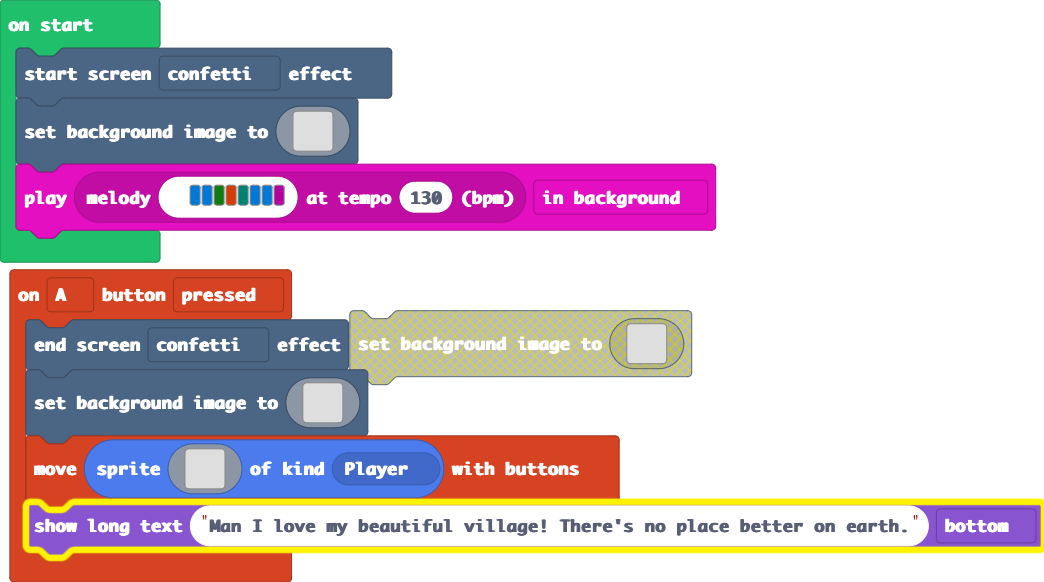
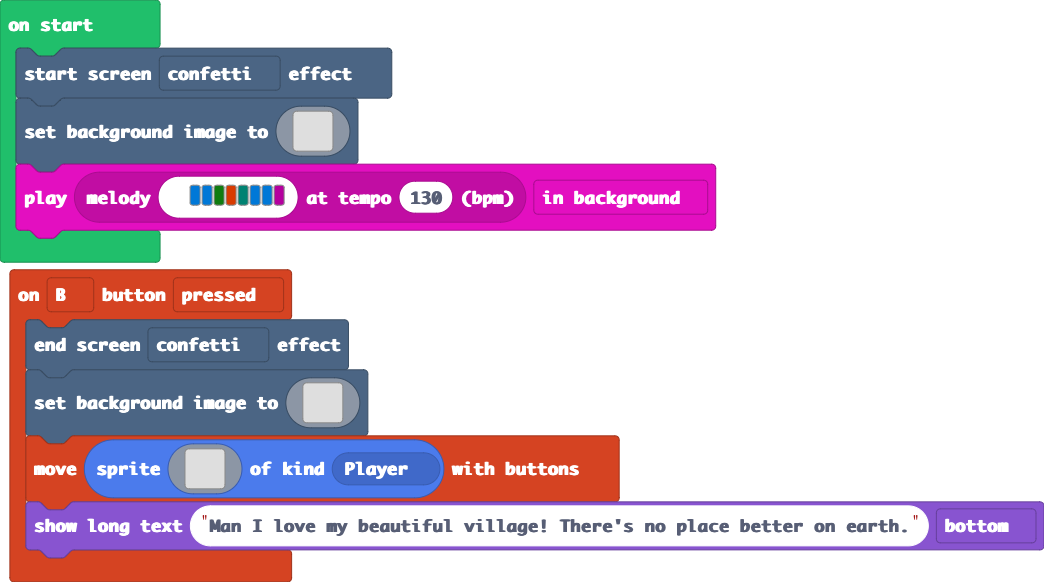
Update main.blocks, main.ts

Changed region(s): [[0.0, 0.8351, 1.0, 0.9897], [0.3372, 0.5258, 0.6743, 0.6804]]

diff --git a/main.ts b/main.ts
@@ -1,4 +1,4 @@
-controller.A.onEvent(ControllerButtonEvent.Pressed, function () {
+controller.B.onEvent(ControllerButtonEvent.Pressed, function () {
     effects.confetti.endScreenEffect()
     scene.setBackgroundImage(assets.image`Village`)
     controller.moveSprite(sprites.create(img`
